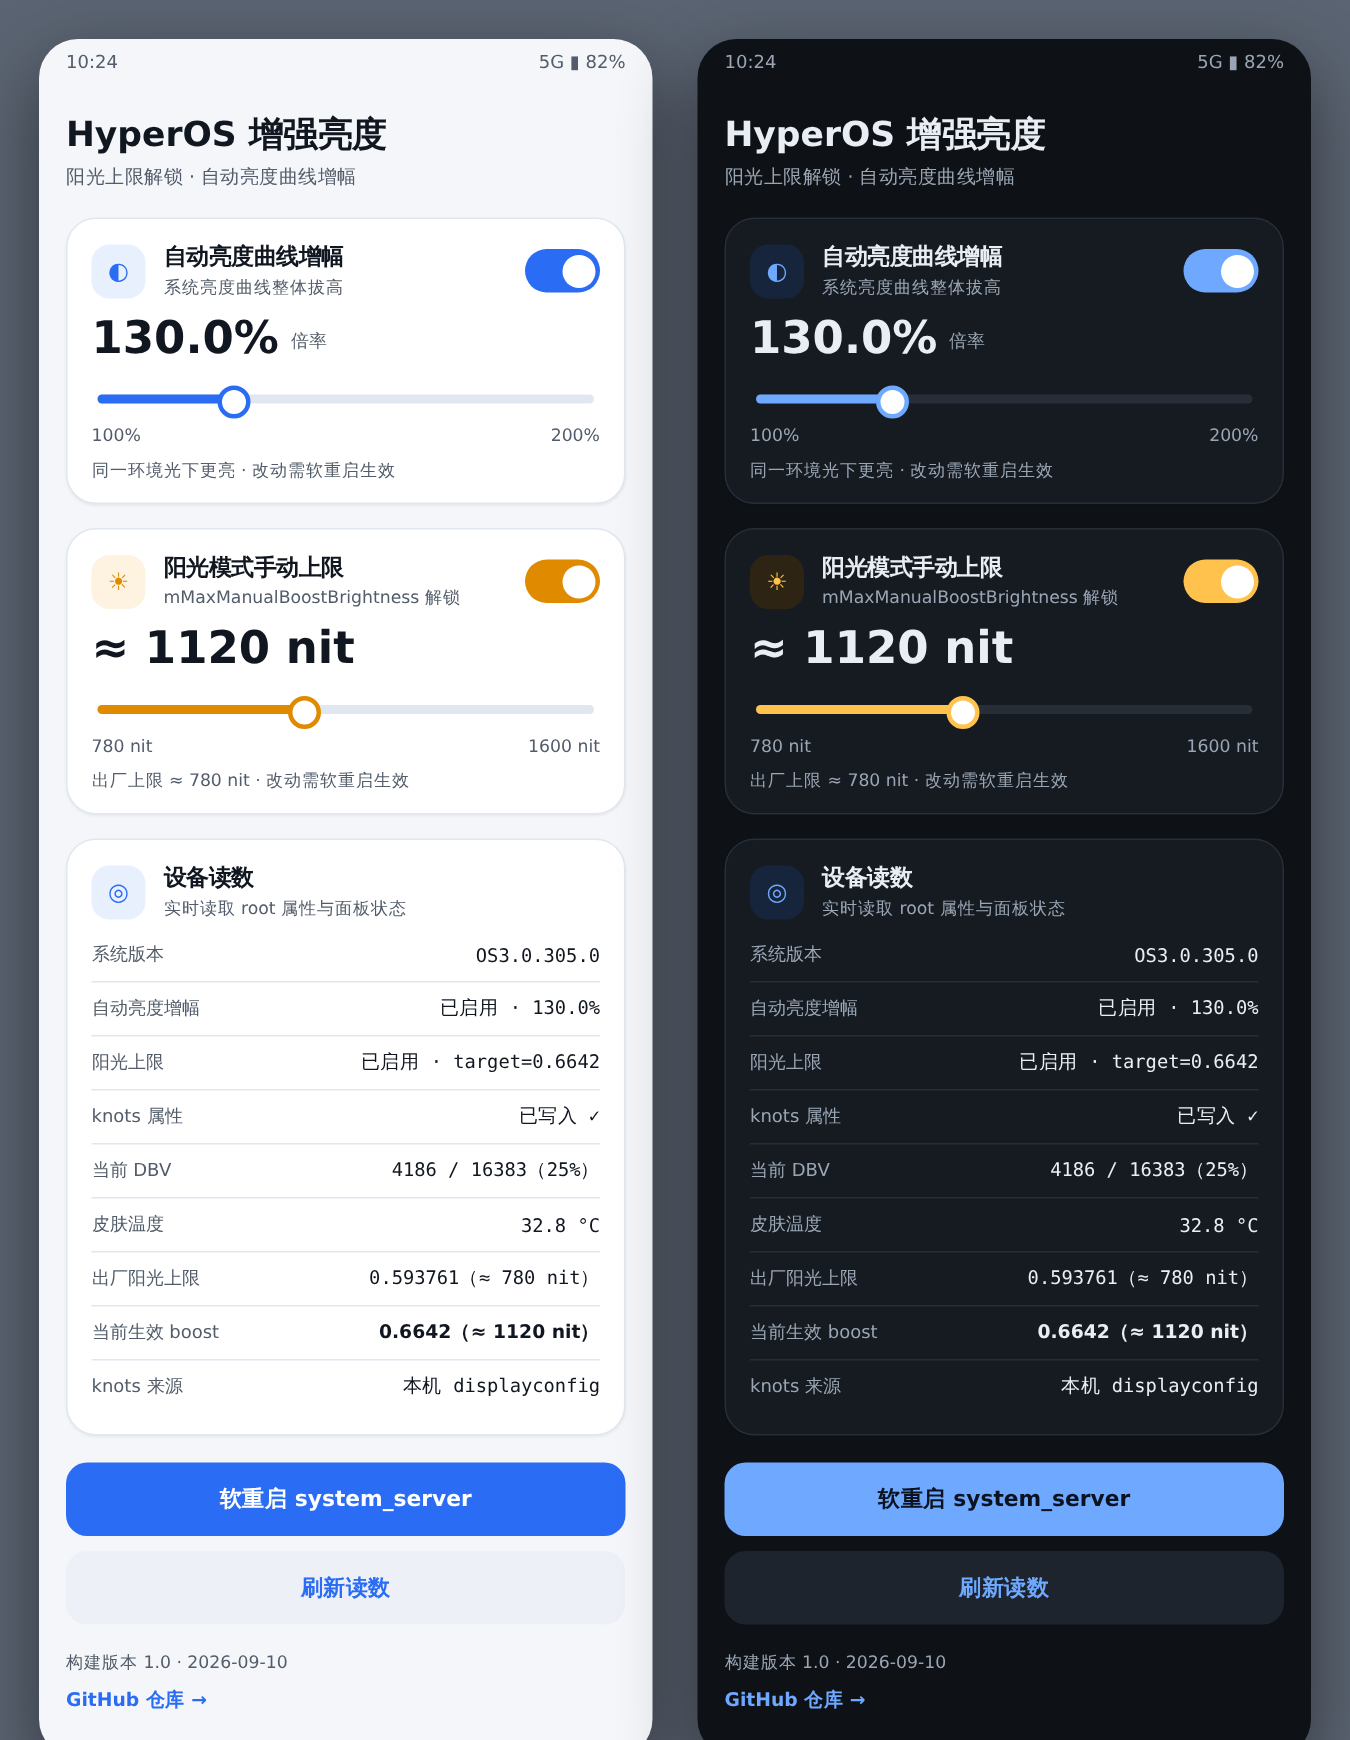
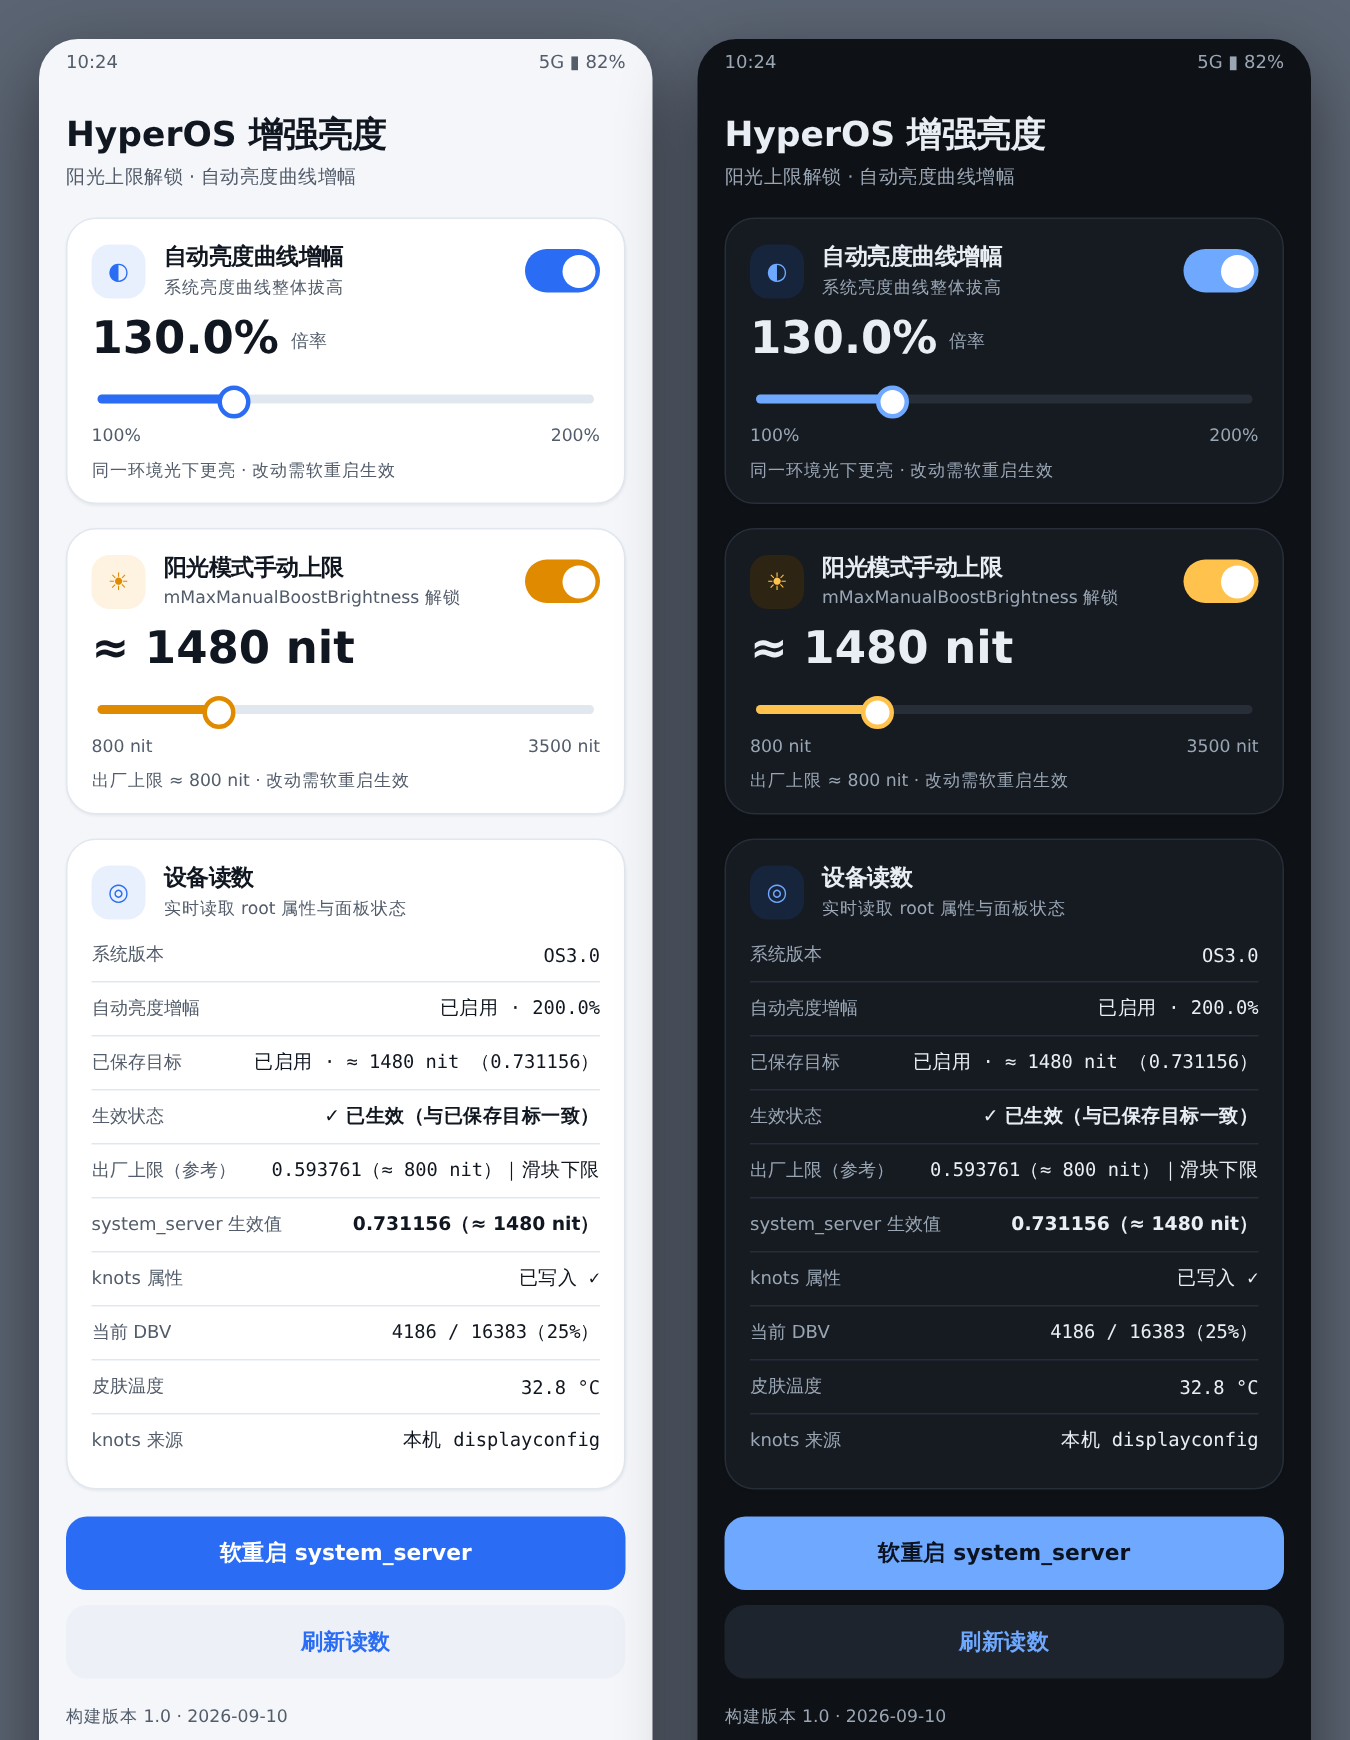
修复阳光目标「没有记忆」与读数误导
根因（真机取证）：
- 清单声明了 xposedsharedprefs（hook 实际只读 persist 属性，用不到 XSharedPreferences），
  LSPosed 因此把本 App 的 prefs 重定向到 /data/misc/apexdata/<misc>/prefs/，
  与被挂钩状态相关 → 同一设置写在两份互不同步的 prefs 里，读到的却是旧的那份
- 轻点滑块（值未变）也回调 onStopTrackingTouch，旧版据此把 prop 覆盖成当时滑块位置
  （=出厂 800 nit），于是「设过又变回 800 nit」，且界面显示 target=0.593761 误导
- 出厂上限那行读的是厂资源真值（无需 root 恒为 800 nit），最容易被当成当前上限

改动：
- 阳光目标恢复改为 prop 优先（hook 真正读取的源，重装/清数据都不丢）→ App prefs →
  当前生效值 → 出厂下限，越界夹紧到边界而非掉回下限
- 值未变化时不回写 prop/prefs；保存后立即刷新读数卡
- 读数拆成「已保存目标 / 生效状态 / 出厂上限（参考）/ system_server 生效值」并给出
  是否已生效的明确结论
- build_apk.py 移除 xposedsharedprefs 声明
- 预览 mock 与 README 同步（按真机数值 800/1480/3500 nit）

diff --git a/_preview/ui.html b/_preview/ui.html
@@ -101,13 +101,13 @@
           <div class="titles"><b>阳光模式手动上限</b><span>mMaxManualBoostBrightness 解锁</span></div>
           <div class="pill sun"><i></i></div>
         </div>
-        <div class="value"><b>≈ 1120 nit</b></div>
+        <div class="value"><b>≈ 1480 nit</b></div>
         <div class="track sun">
-          <div class="rail"></div><div class="fill" style="width:42%"></div>
-          <div class="knob" style="left:42%"></div>
+          <div class="rail"></div><div class="fill" style="width:25%"></div>
+          <div class="knob" style="left:25%"></div>
         </div>
-        <div class="range"><span>780 nit</span><span>1600 nit</span></div>
-        <div class="hint">出厂上限 ≈ 780 nit · 改动需软重启生效</div>
+        <div class="range"><span>800 nit</span><span>3500 nit</span></div>
+        <div class="hint">出厂上限 ≈ 800 nit · 改动需软重启生效</div>
       </div>
 
       <div class="card">
@@ -116,14 +116,15 @@
           <div class="titles"><b>设备读数</b><span>实时读取 root 属性与面板状态</span></div>
         </div>
         <div class="rows">
-          <div class="row"><span class="k">系统版本</span><span class="v">OS3.0.305.0</span></div>
-          <div class="row"><span class="k">自动亮度增幅</span><span class="v">已启用 · 130.0%</span></div>
-          <div class="row"><span class="k">阳光上限</span><span class="v">已启用 · target=0.6642</span></div>
+          <div class="row"><span class="k">系统版本</span><span class="v">OS3.0</span></div>
+          <div class="row"><span class="k">自动亮度增幅</span><span class="v">已启用 · 200.0%</span></div>
+          <div class="row"><span class="k">已保存目标</span><span class="v">已启用 · ≈ 1480 nit （0.731156）</span></div>
+          <div class="row"><span class="k">生效状态</span><span class="v med">✓ 已生效（与已保存目标一致）</span></div>
+          <div class="row"><span class="k">出厂上限（参考）</span><span class="v">0.593761（≈ 800 nit）｜滑块下限</span></div>
+          <div class="row"><span class="k">system_server 生效值</span><span class="v med">0.731156（≈ 1480 nit）</span></div>
           <div class="row"><span class="k">knots 属性</span><span class="v">已写入 ✓</span></div>
           <div class="row"><span class="k">当前 DBV</span><span class="v">4186 / 16383（25%）</span></div>
           <div class="row"><span class="k">皮肤温度</span><span class="v">32.8 °C</span></div>
-          <div class="row"><span class="k">出厂阳光上限</span><span class="v">0.593761（≈ 780 nit）</span></div>
-          <div class="row"><span class="k">当前生效 boost</span><span class="v med">0.6642（≈ 1120 nit）</span></div>
           <div class="row"><span class="k">knots 来源</span><span class="v">本机 displayconfig</span></div>
         </div>
       </div>

diff --git a/module/src/hbr/MainActivity.java b/module/src/hbr/MainActivity.java
@@ -88,6 +88,10 @@ public class MainActivity extends Activity {
     private float stockResFloat = -1f;   // 资源里的出厂真值（不随 hook 改变）
     private int abEnable = 1, slEnable = 1, abPct = DEFAULT_AB_PCT;
     private String slTarget = null;
+    private int slRestoredNit = -1;      // 本次构建滑块时恢复出的目标（判用户是否真改动）
+    private int slRestoredPct = -1;
+    private String statusText = "";
+    private int statusKind = 0;
 
     // ---------- 读数模型（parse 填充 → renderReadout 渲染） ----------
 
@@ -525,6 +529,7 @@ public class MainActivity extends Activity {
                 abPct = v;
                 saveProp(P_AB_PCT, String.valueOf(v));
                 writeKnots();
+                renderReadout();
                 toast("已保存 " + pctLabel(v) + "，软重启后生效");
             }
         });
@@ -559,7 +564,8 @@ public class MainActivity extends Activity {
                 return;
             }
             final int fNitLo = nitLo, fNitHi = nitHi;
-            final int cur = loadNit(fNitLo, fNitHi);
+            final int cur = restoreSlNit(fNitLo, fNitHi);
+            slRestoredNit = cur;
             slValue.setText("≈ " + cur + " nit");
             SeekBar bar = new SeekBar(this);
             styleSeekBar(bar, cSun);
@@ -578,13 +584,19 @@ public class MainActivity extends Activity {
                 @Override
                 public void onStopTrackingTouch(SeekBar s) {
                     int nit = fNitLo + s.getProgress();
+                    // 只是点一下滑块（没真改）也会回调 onStopTrackingTouch：
+                    // 不回写，否则一次误触就把 prop 重置成当时的滑块位置（=出厂下限）
+                    if (nit == slRestoredNit) return;
+                    slRestoredNit = nit;
                     float f = nitToFloat(nit);
-                    saveProp(P_SL_TARGET, String.valueOf(Math.round(f * 1000000f)));
+                    slTarget = String.valueOf(Math.round(f * 1000000f));   // 立刻反映到读数卡
+                    saveProp(P_SL_TARGET, slTarget);
                     try {
                         getSharedPreferences(PREFS, MODE_PRIVATE).edit()
                                 .putInt(KEY_NIT, nit).commit();
                     } catch (Throwable ignored) {
                     }
+                    renderReadout();
                     toast("已保存：上限 ≈ " + nit + " nit，软重启后生效");
                 }
             });
@@ -594,6 +606,7 @@ public class MainActivity extends Activity {
                     + " nit · 改动需软重启生效"));
         } else {
             int pct = 1068;
+            slRestoredPct = pct;
             slValue.setText(pctLabel(pct));
             SeekBar bar = new SeekBar(this);
             styleSeekBar(bar, cSun);
@@ -611,8 +624,11 @@ public class MainActivity extends Activity {
 
                 @Override
                 public void onStopTrackingTouch(SeekBar s) {
-                    saveProp(P_SL_PCT, String.valueOf(1000 + s.getProgress()));
-                    toast("已保存 " + pctLabel(1000 + s.getProgress()) + "，软重启后生效");
+                    int p = 1000 + s.getProgress();
+                    if (p == slRestoredPct) return;
+                    slRestoredPct = p;
+                    saveProp(P_SL_PCT, String.valueOf(p));
+                    toast("已保存 " + pctLabel(p) + "，软重启后生效");
                 }
             });
             slBody.addView(bar);
@@ -625,13 +641,56 @@ public class MainActivity extends Activity {
         return (pct / 10) + "." + (pct % 10) + "%";
     }
 
-    private int loadNit(int lo, int hi) {
+    /**
+     * 阳光目标恢复顺序：prop（hook 真正读取的源，重装/清数据都不会丢）→ App prefs
+     * → dumpsys 当前生效值 → 出厂下限。
+     * 早期版本只认 App prefs，而 LSPosed 的 xposedsharedprefs 会把 prefs 重定向到
+     * 别的目录，于是「设置过又变回出厂值」。
+     */
+    private int restoreSlNit(int lo, int hi) {
+        int v = propNitFrom(slTarget, lo, hi);
+        if (v > 0) return v;
+        v = prefNit(lo, hi);
+        if (v > 0) return v;
+        if (stockFloat > 0f) {
+            int eff = floatToNit(stockFloat);
+            if (eff >= lo && eff <= hi) return eff;
+        }
+        return lo;   // 起步 = 阳光模式原厂上限
+    }
+
+    /** prop 字符串（可带旧属性兼容标记 *）→ nit；越界夹紧到范围边界，解析失败返回 -1。 */
+    private int propNitFrom(String raw, int lo, int hi) {
+        if (raw == null || raw.isEmpty() || tblBL == null || tblNit == null) return -1;
         try {
-            int v = getSharedPreferences(PREFS, MODE_PRIVATE).getInt(KEY_NIT, lo);
+            String s = raw.endsWith("*") ? raw.substring(0, raw.length() - 1) : raw;
+            float f = Long.parseLong(s.trim()) / 1000000f;
+            if (f <= 0f || f > 1f) return -1;
+            return Math.max(lo, Math.min(hi, floatToNit(f)));
+        } catch (Throwable t) {
+            return -1;
+        }
+    }
+
+    private int prefNit(int lo, int hi) {
+        try {
+            int v = getSharedPreferences(PREFS, MODE_PRIVATE).getInt(KEY_NIT, -1);
             if (v >= lo && v <= hi) return v;
         } catch (Throwable ignored) {
         }
-        return lo;   // 起步 = 阳光模式原厂上限
+        return -1;
+    }
+
+    /** prop 里的阳光目标 float（×1e6 已还原）；未设置/非法返回 -1。 */
+    private float savedTargetFloat() {
+        if (slTarget == null || slTarget.isEmpty()) return -1f;
+        try {
+            String s = slTarget.endsWith("*") ? slTarget.substring(0, slTarget.length() - 1) : slTarget;
+            float f = Long.parseLong(s.trim()) / 1000000f;
+            return (f > 0f && f <= 1f) ? f : -1f;
+        } catch (Throwable t) {
+            return -1f;
+        }
     }
 
     // ---------- 标定表换算（厂商分段线性） ----------
@@ -775,10 +834,24 @@ public class MainActivity extends Activity {
 
     private void renderReadout() {
         readoutBox.removeAllViews();
+        computeStatus();
         addRow("系统版本", mOs, 0);
         addRow("自动亮度增幅", (abEnable == 1 ? "已启用 · " : "已停用 · ")
                 + pctLabel(abPct >= 1000 && abPct <= 3000 ? abPct : DEFAULT_AB_PCT), 0);
-        addRow("阳光上限", slText(), 0);
+        // 阳光的三个来源分开写清楚：出厂参考值 ≠ 已保存目标 ≠ 正在运行的值
+        addRow("已保存目标", slText(), 0);
+        addRow("生效状态", statusText, statusKind);
+        if (stockResFloat > 0f) {
+            addRow("出厂上限（参考）", trimFloat(stockResFloat)
+                    + (tblBL != null ? "（≈" + floatToNit(stockResFloat) + " nit）" : "")
+                    + "｜滑块下限", 0);
+        }
+        if (stockFloat > 0f) {
+            addRow("system_server 生效值", trimFloat(stockFloat)
+                    + (tblBL != null ? "（≈" + floatToNit(stockFloat) + " nit）" : ""), 1);
+        } else {
+            addRow("system_server 生效值", "未读到（软重启后出现）", 0);
+        }
         addRow("knots 属性", mKnotsOk ? "已写入 ✓" : "未写入", 0);
         if (mCur >= 0) {
             addRow("当前 DBV", mCur + " / " + mMax + "（" + (mCur * 100 / Math.max(1, mMax)) + "%）", 0);
@@ -786,19 +859,34 @@ public class MainActivity extends Activity {
         if (mSkin > -100000 && mSkin != 0) {
             addRow("皮肤温度", (mSkin / 1000) + "." + ((mSkin % 1000) / 100) + " °C", 0);
         }
-        if (stockResFloat > 0f) {
-            addRow("出厂阳光上限", trimFloat(stockResFloat)
-                    + (tblBL != null ? "（≈" + floatToNit(stockResFloat) + " nit）" : ""), 0);
-        }
-        if (stockFloat > 0f) {
-            addRow("当前生效 boost", trimFloat(stockFloat)
-                    + (tblBL != null ? "（≈" + floatToNit(stockFloat) + " nit）" : ""), 1);
-        } else {
-            addRow("当前生效 boost", "未读到（软重启后出现）", 0);
-        }
         addRow("knots 来源", knotsSpec != null ? "本机 displayconfig" : "内置默认（dash）", 0);
         if (mOldModule) {
             addRow("冲突提醒", "旧模块 com.sunlightboost.lsp 仍安装，请在 LSPosed 停用", 2);
+        }
+    }
+
+    /** 已保存目标 vs 正在运行的 system_server 值，给出明确结论（statusText/statusKind）。 */
+    private void computeStatus() {
+        float tgt = savedTargetFloat();
+        if (tgt <= 0f) {
+            statusText = "未设置目标（按出厂倍率运行）";
+            statusKind = 0;
+            return;
+        }
+        if (stockFloat <= 0f) {
+            statusText = "⚠ 未读到生效值，软重启后确认";
+            statusKind = 2;
+            return;
+        }
+        boolean same = (tblBL != null)
+                ? Math.abs(floatToNit(stockFloat) - floatToNit(tgt)) <= 1
+                : Math.abs(stockFloat - tgt) < 1e-6f;
+        if (same) {
+            statusText = "✓ 已生效（与已保存目标一致）";
+            statusKind = 0;
+        } else {
+            statusText = "⚠ 运行的还是旧值，软重启后才是已保存目标";
+            statusKind = 2;
         }
     }
 
@@ -824,17 +912,11 @@ public class MainActivity extends Activity {
 
     private String slText() {
         StringBuilder sb = new StringBuilder(slEnable == 1 ? "已启用 · " : "已停用 · ");
-        if (slTarget != null && !slTarget.isEmpty()) {
-            boolean compat = slTarget.endsWith("*");
-            String val = compat ? slTarget.substring(0, slTarget.length() - 1) : slTarget;
-            try {
-                float f = Long.parseLong(val) / 1000000f;
-                sb.append("target=").append(trimFloat(f));
-                if (tblBL != null) sb.append("（≈").append(floatToNit(f)).append(" nit）");
-                if (compat) sb.append("（旧属性兼容，保存后覆盖）");
-            } catch (Throwable t) {
-                sb.append(slTarget);
-            }
+        float f = savedTargetFloat();
+        if (f > 0f) {
+            if (tblBL != null && tblNit != null) sb.append("≈ ").append(floatToNit(f)).append(" nit ");
+            sb.append("（").append(trimFloat(f)).append("）");
+            if (slTarget.endsWith("*")) sb.append("旧属性");
         } else {
             sb.append("未设置（默认 106.8%）");
         }

diff --git a/module/build_apk.py b/module/build_apk.py
@@ -63,8 +63,9 @@ DOC = [
     ('/meta-data', []),
     ('meta-data', [(NS_ANDROID, 'name', 'str', 'xposedscope'), (NS_ANDROID, 'value', 'str', 'android')]),
     ('/meta-data', []),
-    ('meta-data', [(NS_ANDROID, 'name', 'str', 'xposedsharedprefs'), (NS_ANDROID, 'value', 'str', 'true')]),
-    ('/meta-data', []),
+    # 不声明 xposedsharedprefs：hook 只读 persist 属性，不需要 XSharedPreferences；
+    # 声明它会让 LSPosed 把本 App 的 SharedPreferences 重定向到 misc 目录，
+    # 造成「设置过又变回出厂值」的双份 prefs 问题。
     ('activity', [
         (NS_ANDROID, 'name', 'str', 'hbr.MainActivity'),
         (NS_ANDROID, 'label', 'str', 'HyperOS Enhanced Brightness'),

diff --git a/module/README.md b/module/README.md
@@ -119,6 +119,19 @@ Material 3 风格：设计 token 跟随系统深浅色，卡片圆角 + 描边 +
 
 界面预览（静态 mock，浅色/深色）：`_preview/ui.html` / `_preview/ui.png`
 
+### 阳光目标的「记忆」与读数语义
+
+- **恢复顺序**：`persist.hyperbrightness.sunlight.target`（hook 真正读取的源，重装/清数据都不丢）
+  → App SharedPreferences → dumpsys 当前生效值 → 出厂下限；越界值夹紧到边界，不再掉回下限
+- **只在真正改动时回写**：轻点一下滑块（值没变）也会回调 `onStopTrackingTouch`，旧版据此
+  把 prop 覆盖成当时的滑块位置（=出厂下限），于是「设过又变回 800 nit」；现在值未变则不回写
+- **读数分三个来源写清楚**：`已保存目标`（prop）、`生效状态`（目标与运行值是否一致）、
+  `出厂上限（参考）`（厂资源真值，也是滑块下限）、`system_server 生效值`（dumpsys）——
+  出厂参考值不会再被误当成当前上限
+- 清单不再声明 `xposedsharedprefs`：hook 只读 persist 属性，不需要 XSharedPreferences，
+  而该声明会让 LSPosed 把本 App 的 SharedPreferences 重定向到 misc 目录，产生两份互不同步的
+  prefs（正是「没有记忆」的根因之一）
+
 
 ## 构建产物结构
 

diff --git a/README.md b/README.md
@@ -129,6 +129,16 @@ Material 3 风格：设计 token 跟随系统深浅色，卡片圆角 + 描边 +
 
 ![GUI 预览](_preview/ui.png)
 
+### 阳光目标的记忆与读数语义
+
+- 滑块恢复顺序：`persist.hyperbrightness.sunlight.target`（hook 真正读取的源）→ App prefs →
+  当前生效值 → 出厂下限；越界夹紧到边界。重装 App、清数据都不会再「忘记」设置
+- 只在值真正变化时回写：轻点滑块不再把 prop 覆盖成当时的滑块位置（旧版会因此把目标
+  重置成出厂 800 nit）
+- 读数分来源显示：`已保存目标` / `生效状态` / `出厂上限（参考）` / `system_server 生效值`，
+  出厂参考值不会再被误认为当前上限
+
+
 
 ## 构建产物结构
 
